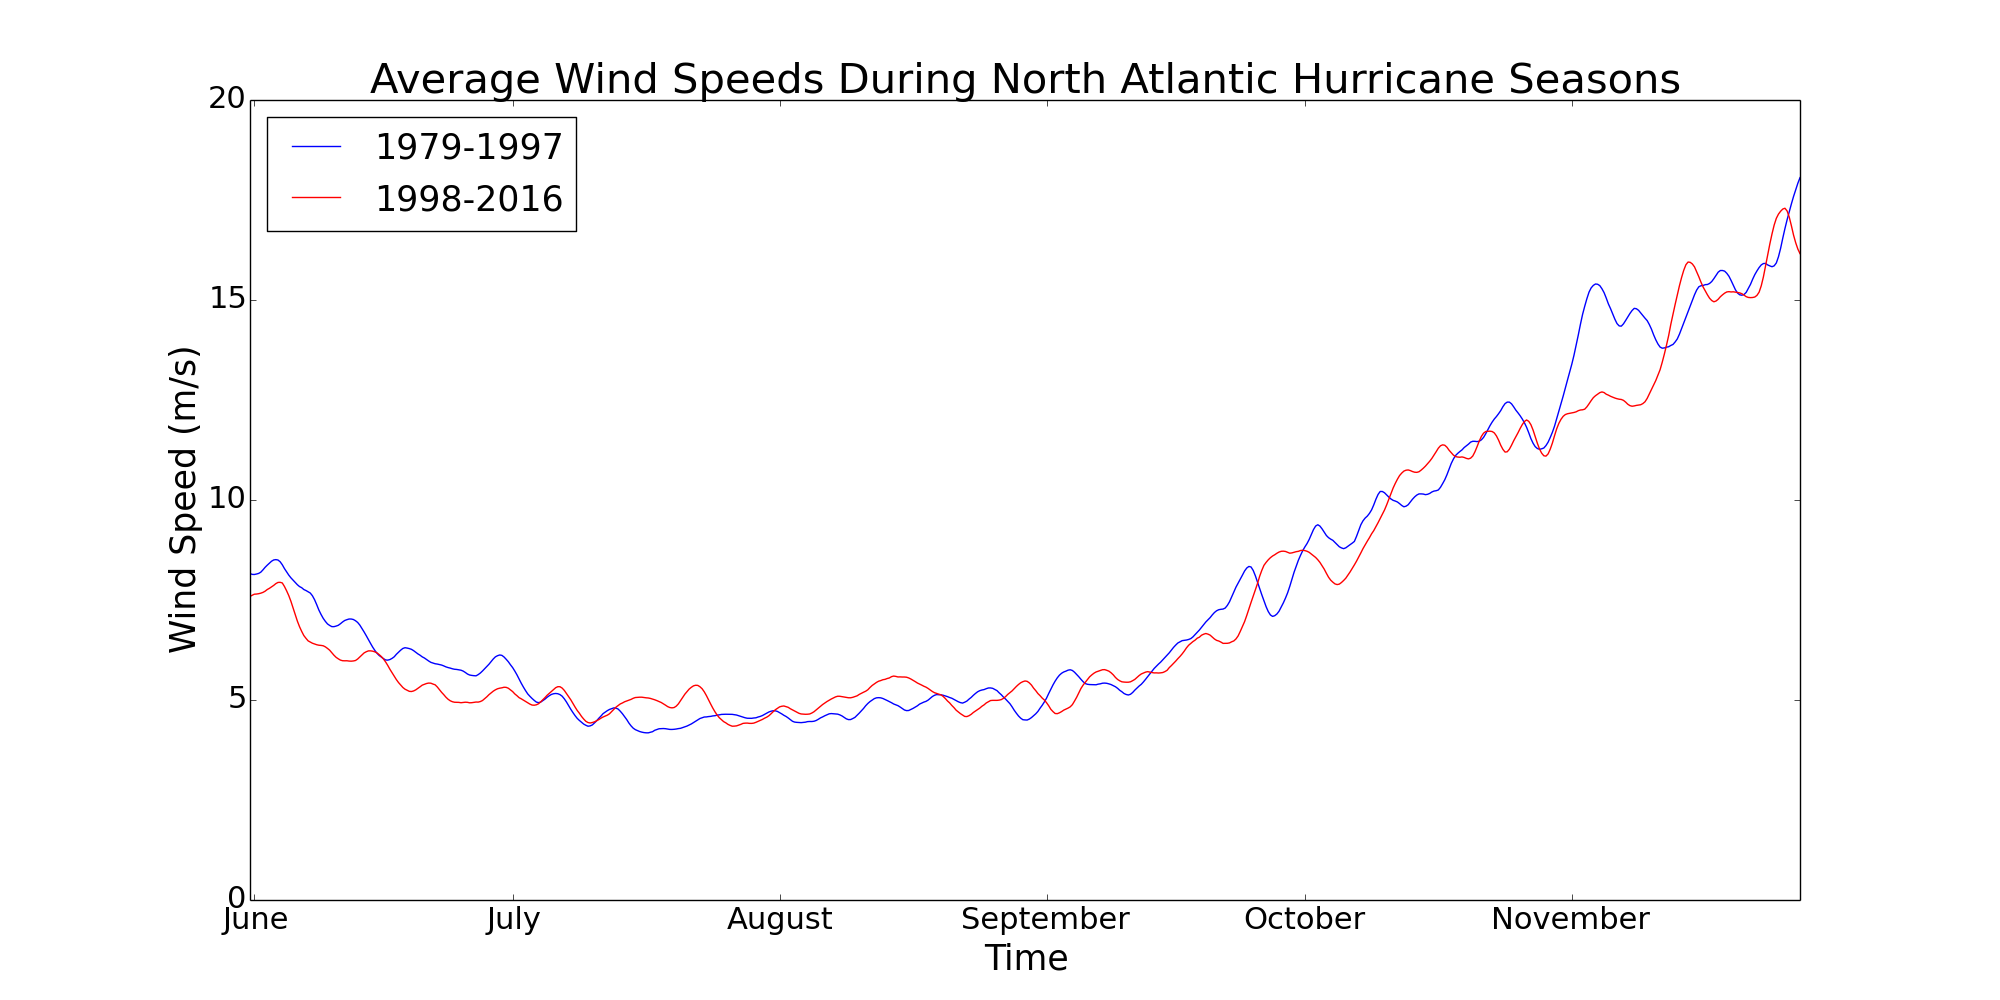
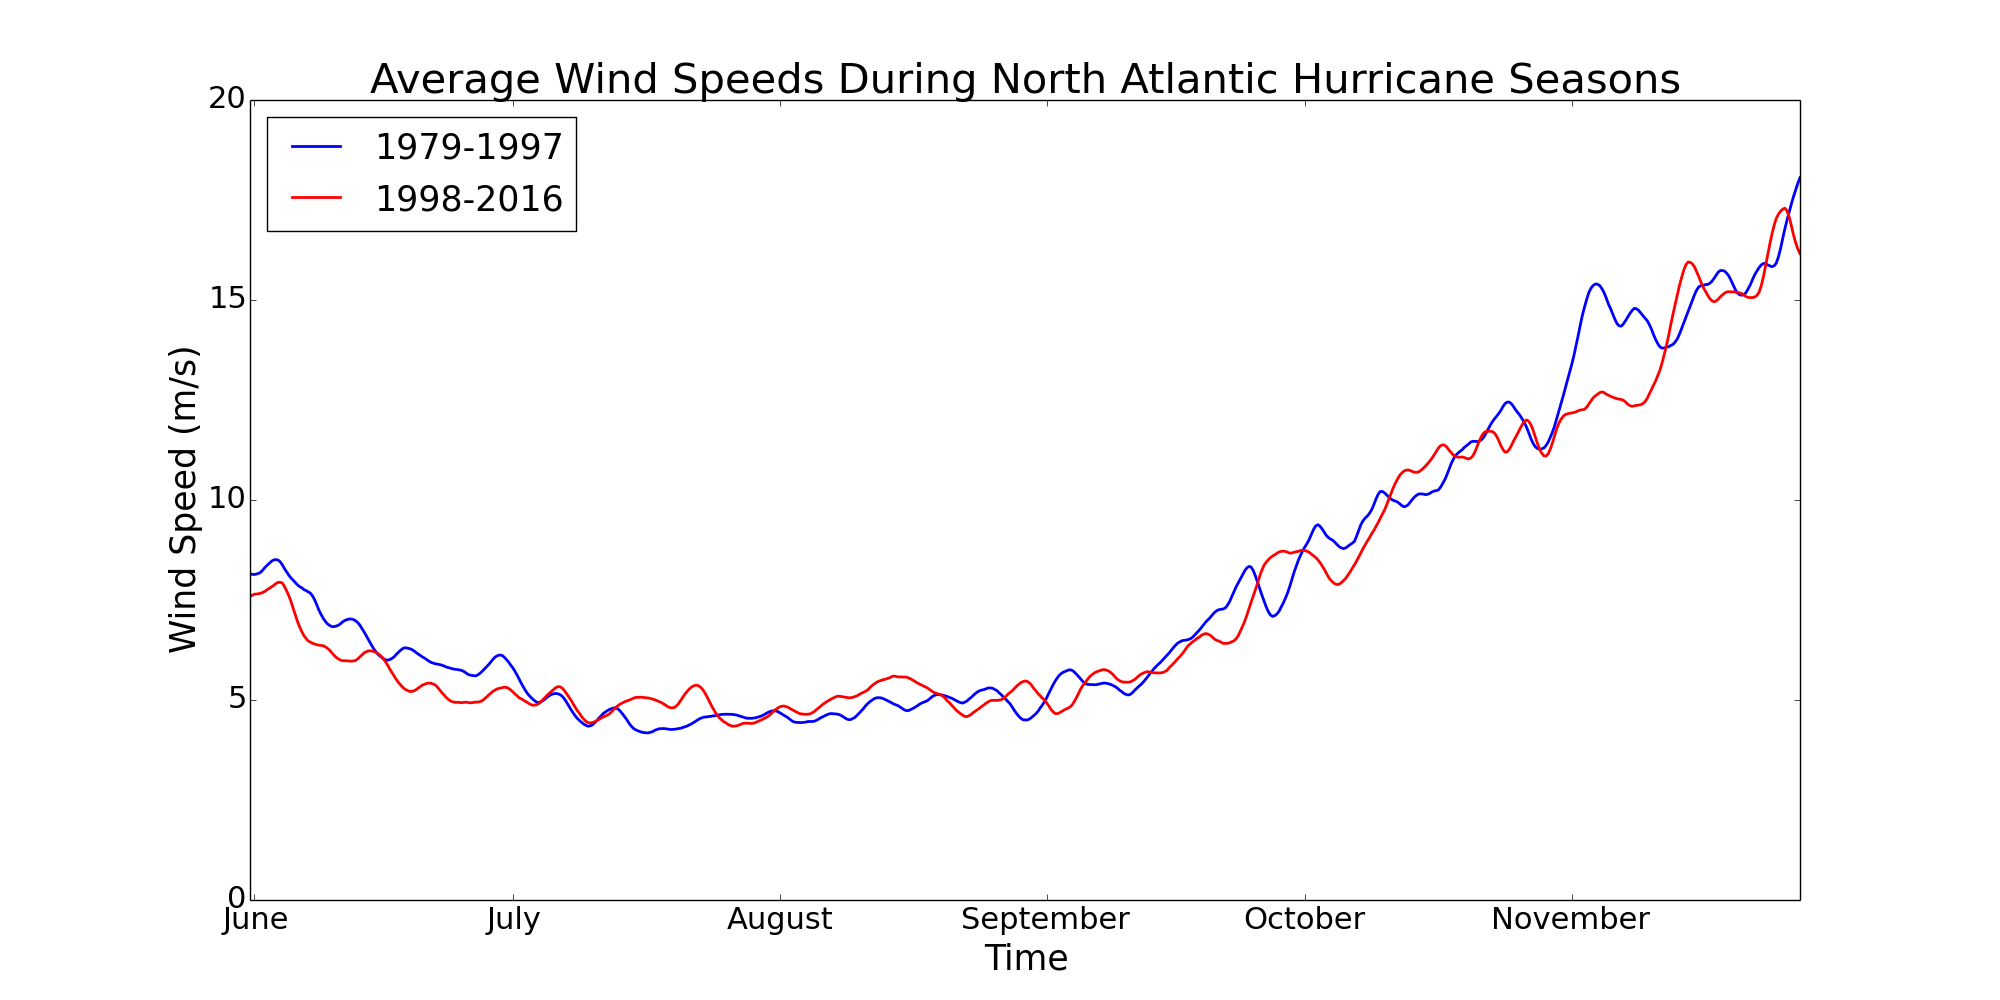
One last update to figures

diff --git a/DLM_stats.py b/DLM_stats.py
@@ -771,15 +771,17 @@ weights = [(float(25)/float(900)) * 100, (float(50)/float(900)) * 100, (float(50
            (float(50)/float(900)) * 100, (float(75)/float(900)) * 100, (float(100)/float(900)) * 100,
            (float(150)/float(900)) * 100, (float(175)/float(900)) * 100, (float(150)/float(900)) * 100,
            (float(75)/float(900)) * 100]
-fig, ax = plt.subplots(1,1)
-ax.plot(weights, p_levels)
-ax.set_ylim(1000,100)
+fig, ax = plt.subplots(1, 1)
+ax.plot(weights, p_levels, linewidth = 2)
+ax.tick_params(labelsize = 12)
+ax.set_xlim(0, 20)
+ax.set_ylim(1000, 100)
 ax.set_yscale('log')
 ax.set_yticks([100, 200, 300, 400, 500, 600, 700, 800, 900, 1000])
 ax.get_yaxis().set_major_formatter(mpl.ticker.ScalarFormatter())
-ax.set_ylabel('Pressure Level (mb)')
-ax.set_xlabel('Weight (%)')
-ax.set_title('Neumann (1988) Deep Layer Mean Weighting Scheme')
+ax.set_ylabel('Pressure Level (mb)', fontsize = 15)
+ax.set_xlabel('Weight (%)', fontsize = 15)
+ax.set_title('Neumann (1988) Deep Layer Mean Weighting Scheme', fontsize = 17)
 fig.savefig('Figures/DLM_weights.png')
 plt.show()
 
@@ -1078,8 +1080,8 @@ avg_wind_speeds_98_16, dates_and_times_1y = averageWindsEachTime(wind_speeds_98_
 # Plot the averaged wind speeds
 fig, ax = plt.subplots(1, figsize = (20,10))
 ax.tick_params(labelsize = 22)
-ax.plot(dates_and_times_1y, avg_wind_speeds_79_97, 'b-', label = '1979-1997')
-ax.plot(dates_and_times_1y, avg_wind_speeds_98_16, 'r-', label = '1998-2016')
+ax.plot(dates_and_times_1y, avg_wind_speeds_79_97, 'b-', linewidth = 2, label = '1979-1997')
+ax.plot(dates_and_times_1y, avg_wind_speeds_98_16, 'r-', linewidth = 2, label = '1998-2016')
 ax.set_ylim(ymin = 0)
 ax.set_ylabel('Wind Speed (m/s)', fontsize = 25)
 ax.set_xlabel('Time', fontsize = 25)
